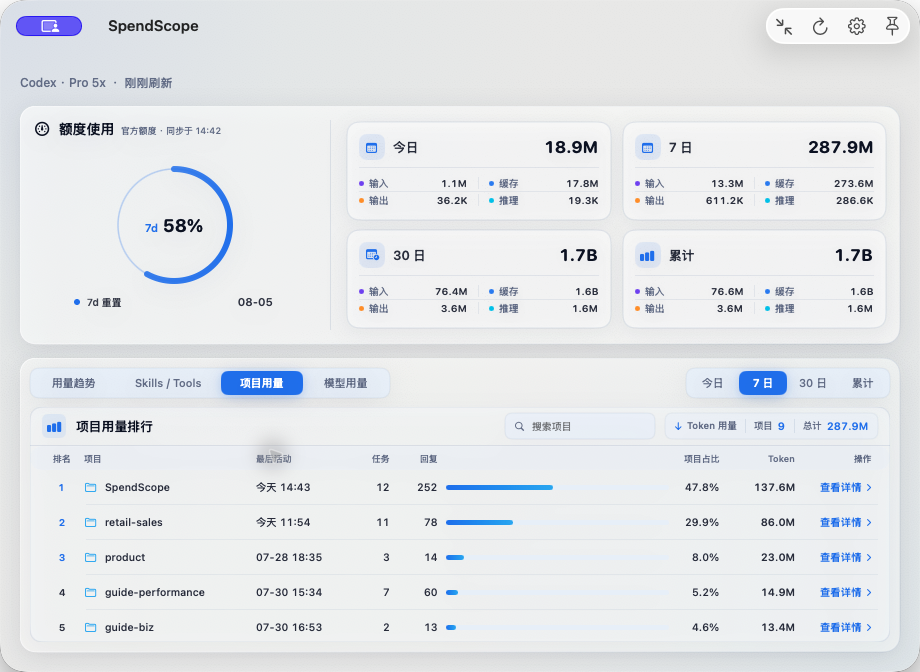
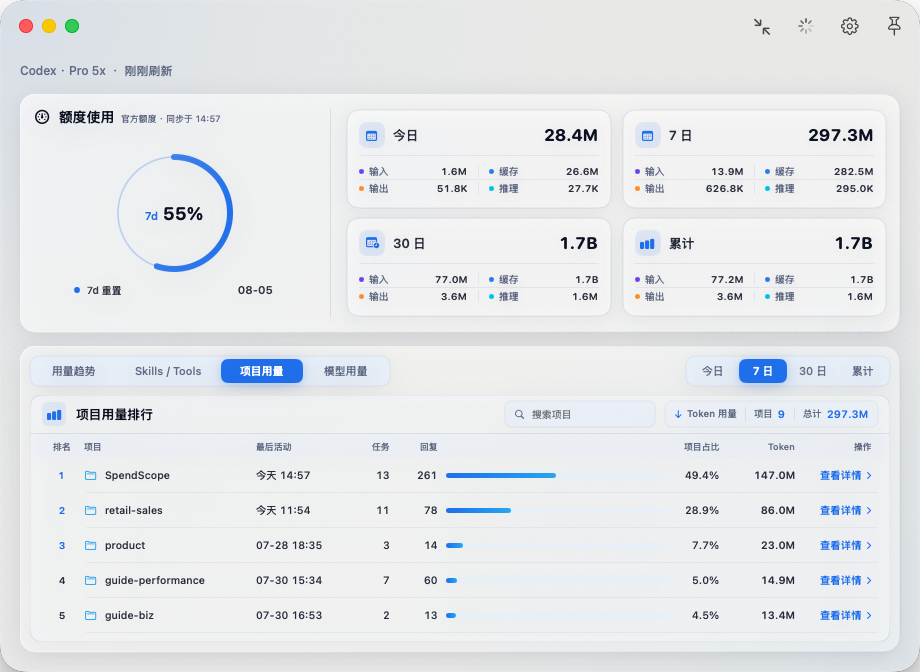
Document Skills, Tools, and model usage views

diff --git a/README.md b/README.md
@@ -70,6 +70,14 @@ flowchart LR
 
 看板集中展示当前额度、今日/近 7 日/近 30 日/累计 Token，以及用量日历和趋势图。顶部标签可以切换到 Skills / Tools、项目用量和模型用量排行；项目排行可打开独立详情窗口查看项目概览、任务和回复，模型排行同时提供 Token 构成、公开 API 标准价格与费用明细。费用仅为基于本地 Token 的 API 等值估算，不代表 Codex 实际账单，未公开定价的内部模型不会被强行套价。
 
+#### Skills / Tools 排行
+
+![SpendScope Skills 与 Tools 排行，展示调用次数和相对占比](docs/images/spendscope-activity-usage.png)
+
+#### 模型用量
+
+![SpendScope 模型用量排行，展示 Token 总量和 API 等值费用估算](docs/images/spendscope-model-usage.png)
+
 ### 项目用量与回复调用详情
 
 项目用量页保留紧凑排行，不直接在表格中展开内容。点击项目行的“查看详情”会打开独立项目详情窗口，并锁定原看板；拖动详情窗口时原看板会同步移动。详情窗口包含：
